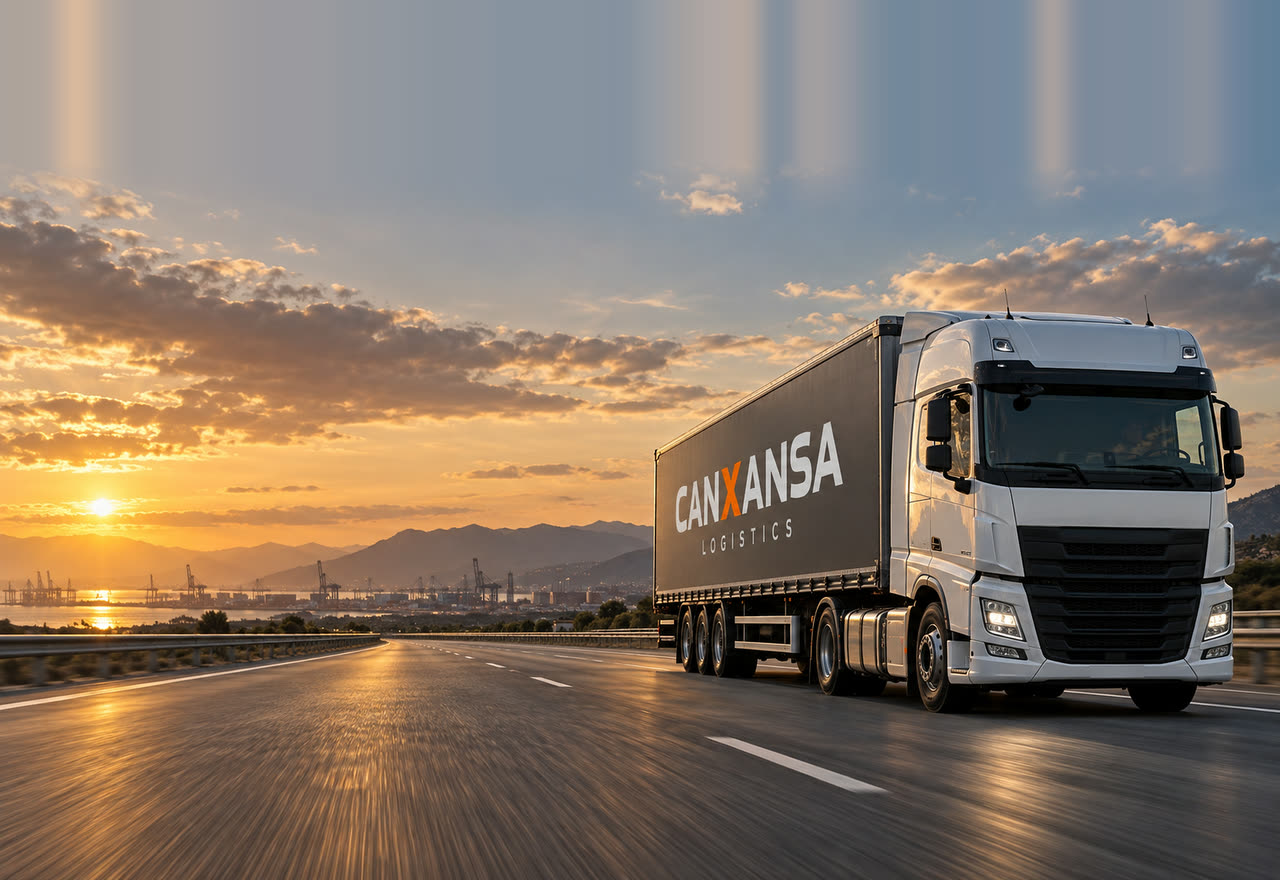
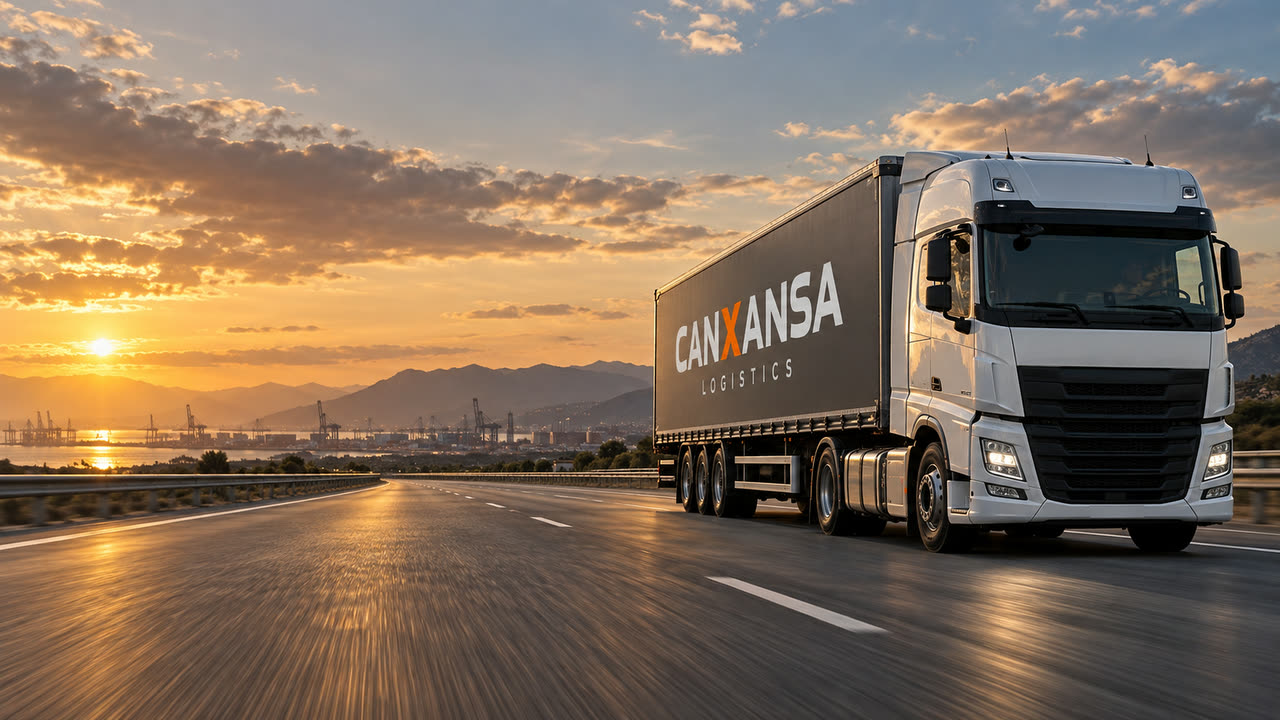
Hero görselinin gökyüzü uzatmasını kaldır, kadrajı ortala
Görselin üstüne eklenen 320px gökyüzü, başlık tam genişlikteyken dorse
yazısıyla çakışmayı önlemek içindi. Başlık sol sütuna alınınca gerekliliği
kalmadı ve zararlı hale geldi: üst kenara hizalı kadraj, laptop gibi kısa
viewport'larda fotoğrafın altını kırpıyor, yol kayboluyor ve kamyon
orantısız büyüyordu.

Görsel orijinal 2560x1440 kadrajına döndü, hizalama ortaya alındı.
1920, 1512x800, 1440 ve mobilde kamyonun tamamı ve yol görünüyor.

diff --git a/index.html b/index.html
@@ -255,7 +255,7 @@
   }
   .hero-port img {
     position: absolute; inset: 0; width: 100%; height: 100%;
-    object-fit: cover; object-position: 50% 0%;
+    object-fit: cover; object-position: 50% 50%;
   }
   .hero-port canvas { position: absolute; inset: 0; }
   .hero-port img, .hero-port canvas { filter: brightness(1.03) saturate(1.04); }
@@ -808,7 +808,7 @@
     <picture>
       <source type="image/webp" sizes="100vw"
               srcset="/images/hero-truck-1280.webp 1280w, /images/hero-truck.webp 2560w">
-      <img src="/images/hero-truck.jpg" alt="" width="2560" height="1760" fetchpriority="high" decoding="async">
+      <img src="/images/hero-truck.jpg" alt="" width="2560" height="1440" fetchpriority="high" decoding="async">
     </picture>
   </div>
   <div class="hero-veil"></div>
